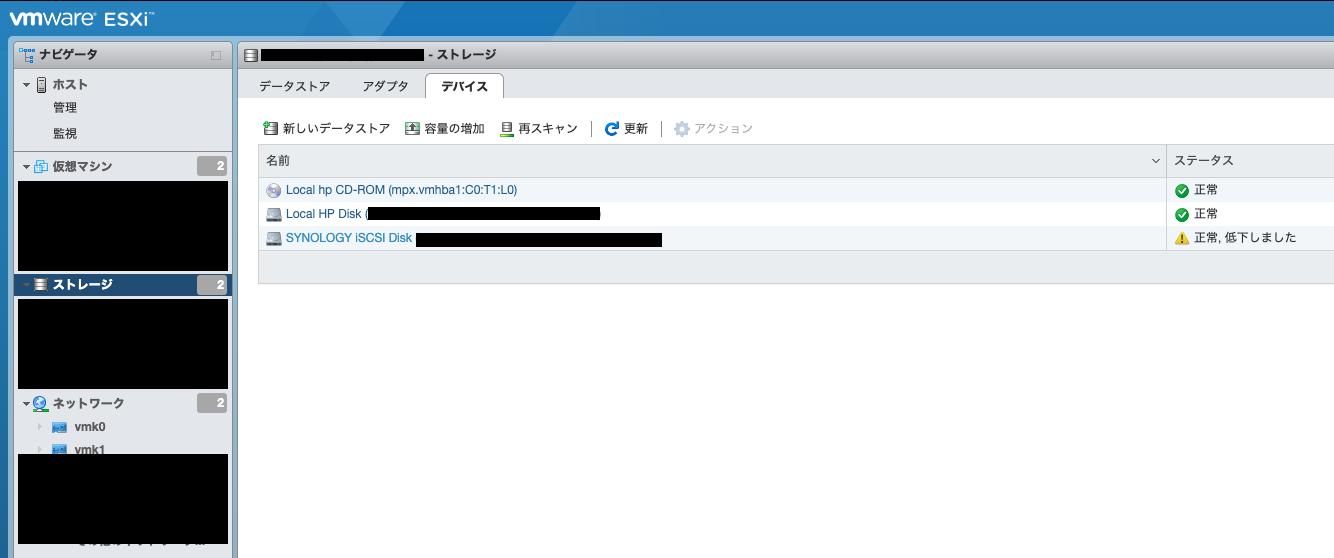
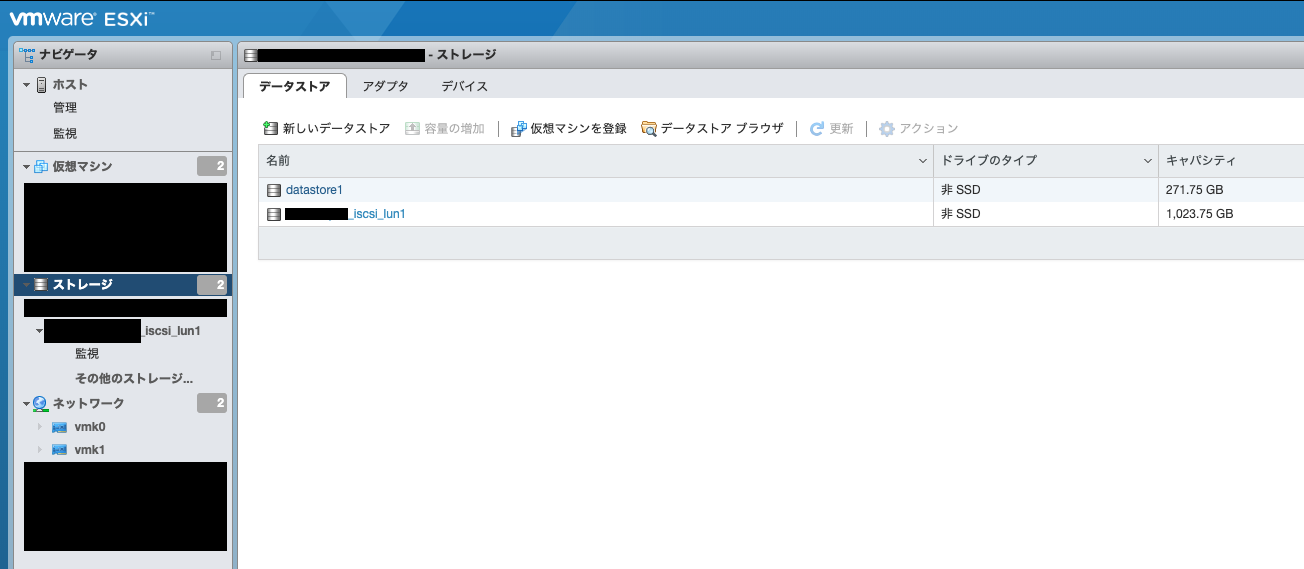
2020-03-07 23:40:25 JST

Changed region(s): [[0.0, 0.0, 1.0, 1.0], [0.7055, 0.3656, 0.7669, 0.3961]]

diff --git a/source/unix/esxi.md b/source/unix/esxi.md
@@ -94,3 +94,75 @@ Update Result
    VIBs Skipped: VMW_bootbank_ima-qla4xxx_2.02.18-1vmw.670.0.0.8169922, VMW_bootbank_misc-cnic-register_1.78.75.v60.7-1vmw.670.0.0.8169922, VMW_bootbank_net-bnx2_2.2.4f.v60.10-2vmw.670.0.0.8169922, VMW_bootbank_net-bnx2x_1.78.80.v60.12-2vmw.670.0.0.8169922, VMW_bootbank_net-cnic_1.78.76.v60.13-2vmw.670.0.0.8169922, VMW_bootbank_net-igb_5.0.5.1.1-5vmw.670.0.0.8169922, VMW_bootbank_net-ixgbe_3.7.13.7.14iov-20vmw.670.0.0.8169922, VMW_bootbank_net-tg3_3.131d.v60.4-2vmw.670.0.0.8169922, VMW_bootbank_scsi-bnx2fc_1.78.78.v60.8-1vmw.670.0.0.8169922, VMW_bootbank_scsi-bnx2i_2.78.76.v60.8-1vmw.670.0.0.8169922, VMW_bootbank_scsi-megaraid-sas_6.603.55.00-2vmw.670.0.0.8169922, VMW_bootbank_scsi-qla4xxx_5.01.03.2-7vmw.670.0.0.8169922
 [root@localhost:~]
 ```
+
+## Synology NAS(DS918+)とESXiをiSCSIする
+わりと簡単にできたのでメモっておく．
+
+### やりたいこと
+- SynologyのNAS(DS918+)とESXi 6.5の間をiSCSIでつなぐ．
+- Synology NASがtarget, ESXiがinitiator
+- CHAP認証してみる．
+
+### やりかた
+- ここ見るとさくっとできる．
+  - [DiskStation Manager - Knowledge Base | Synology Inc.](https://www.synology.com/ja-jp/knowledgebase/DSM/tutorial/Virtualization/How_to_set_up_Synology_NAS_as_VMware_server_datastore)
+- じゃあなんでお前この記事書いてんのって話だが，自分の記録のためである．
+
+### やる
+まずはSynology NAS側でiSCSI targetを設定する．
+```eval_rst
+.. image:: ../resources/images/esxi_synology_iscsi_01.png
+```
+iSCSI managerからtargetを新規作成する．CHAPしたいときはCHAP有効化して認証情報をいれておく．別に後から有効化することもできる(一時的なstorage断は伴うが)．
+```eval_rst
+.. image:: ../resources/images/esxi_synology_iscsi_02.png
+```
+LUNが未作成の場合/割り当てるLUNがない場合はここでLUNを作成する．すでに作成済みの場合はそれを割り当てる事もできる．適当にsizeやらを設定して作成する．
+```eval_rst
+.. image:: ../resources/images/esxi_synology_iscsi_03.png
+```
+LUNを作成したいボリュームや容量を決める．
+スペース割り当てと書いてある部分はthick/thin provisioningが選べるはず．
+thick provisioningはLUN作成時に割り当て容量のすべてを実際のディスクに割り当てをするが，thinの場合は必要になったらその都度割り当てするようなイメージ．
+thinの場合は利用した分だけ割り当てられるのでストレージの利用効率がいいが，その特性上必要になったら都度割り当て, zeronize等の処理が入るので若干のパフォーマンス低下が存在することがあるというのが懸念点かと思う．
+それに対しthin provisioningは初めに割り当て容量の全てをzeronizeする．この処理が入るのは割り当て時のみであるため利用中の割り当て/zeronize等によるパフォーマンス低下は気にしなくていいと考えられる．
+```eval_rst
+.. image:: ../resources/images/esxi_synology_iscsi_04.png
+```
+見直して良ければ適用してLUN, targetの作成を終える．
+これでSynology NAS側のsettingは終了．IQNとSynology NASのIPがのちに必要になる．
+ここからはinitiatorとなるESXi側で設定を行なっていく．
+`ストレージ > アダプタ`タブを選択し，今回はソフトウェアiSCSIを利用するのでそいつを選択．
+```eval_rst
+.. image:: ../resources/images/esxi_synology_iscsi_05.png
+```
+iSCSIを有効にし，CHAP認証を利用する場合はCHAPを有効化して認証情報を入れる．
+ポートバインディングではiSCSIを利用するVMkernel NICを選ぶ．これはmanagement VMkernel NICとは別にしておくのがよさそう．iSCSI用にVMkernel NICをあらかじめ割り当てておくとよい．
+固定ターゲットの部分にSynology NASのIQNとIP Addressを入れる．動的ターゲットとしてIP Addressを入れるだけでも接続と思われるが，より限定的/明示的に設定したいので今回は固定ターゲットとして設定する．
+入力を終えたら設定を保存して適用する．
+```eval_rst
+.. image:: ../resources/images/esxi_synology_iscsi_06.png
+```
+設定が正常に行われるとデバイスにiSCSI接続されたNASが見える．
+// degradeしているのが見えているが，これはiSCSIのuplinkが冗長でないためのよう．複数のuplinkをvswitchにいれてやれば解決すると思う．
+もちろんSynology NAS側でも接続されていることが確認できる(iSCSI managerで確認可能)．
+ここまでくればあとはこのiSCSI targetに対してVMFSを設定して利用するだけだ．
+```eval_rst
+.. image:: ../resources/images/esxi_synology_iscsi_07.png
+```
+`ストレージ > データストア > 新しいデータストア` からデータストア設定wisardに入る．
+新規にVMFSを作成する．あとはぽちぽち進んで，できあがる．
+```eval_rst
+.. image:: ../resources/images/esxi_synology_iscsi_08.png
+```
+データストア もちゃんと見えている．めでたし
+
+### 気になること．
+- どのくらい切断するとVMに顕著に影響するのか．
+  - もちろん切断した瞬間からファイルシステムへの書き込みはできなくなるわけだが，たとえばdbとかどうなるのかわかってない．
+  - 要するにdisk busyになっちゃうからmem上でしか遊べなくなるんだろう．
+- [iSCSIが切断された時どうなるか検証（ESXi） | fefcc.net](https://fefcc.net/archives/475)
+
+### References
+- [DiskStation Manager - Knowledge Base | Synology Inc.](https://www.synology.com/ja-jp/knowledgebase/DSM/tutorial/Virtualization/How_to_set_up_Synology_NAS_as_VMware_server_datastore)
+- [VMware Knowledge Base](https://kb.vmware.com/s/article/2045040)
